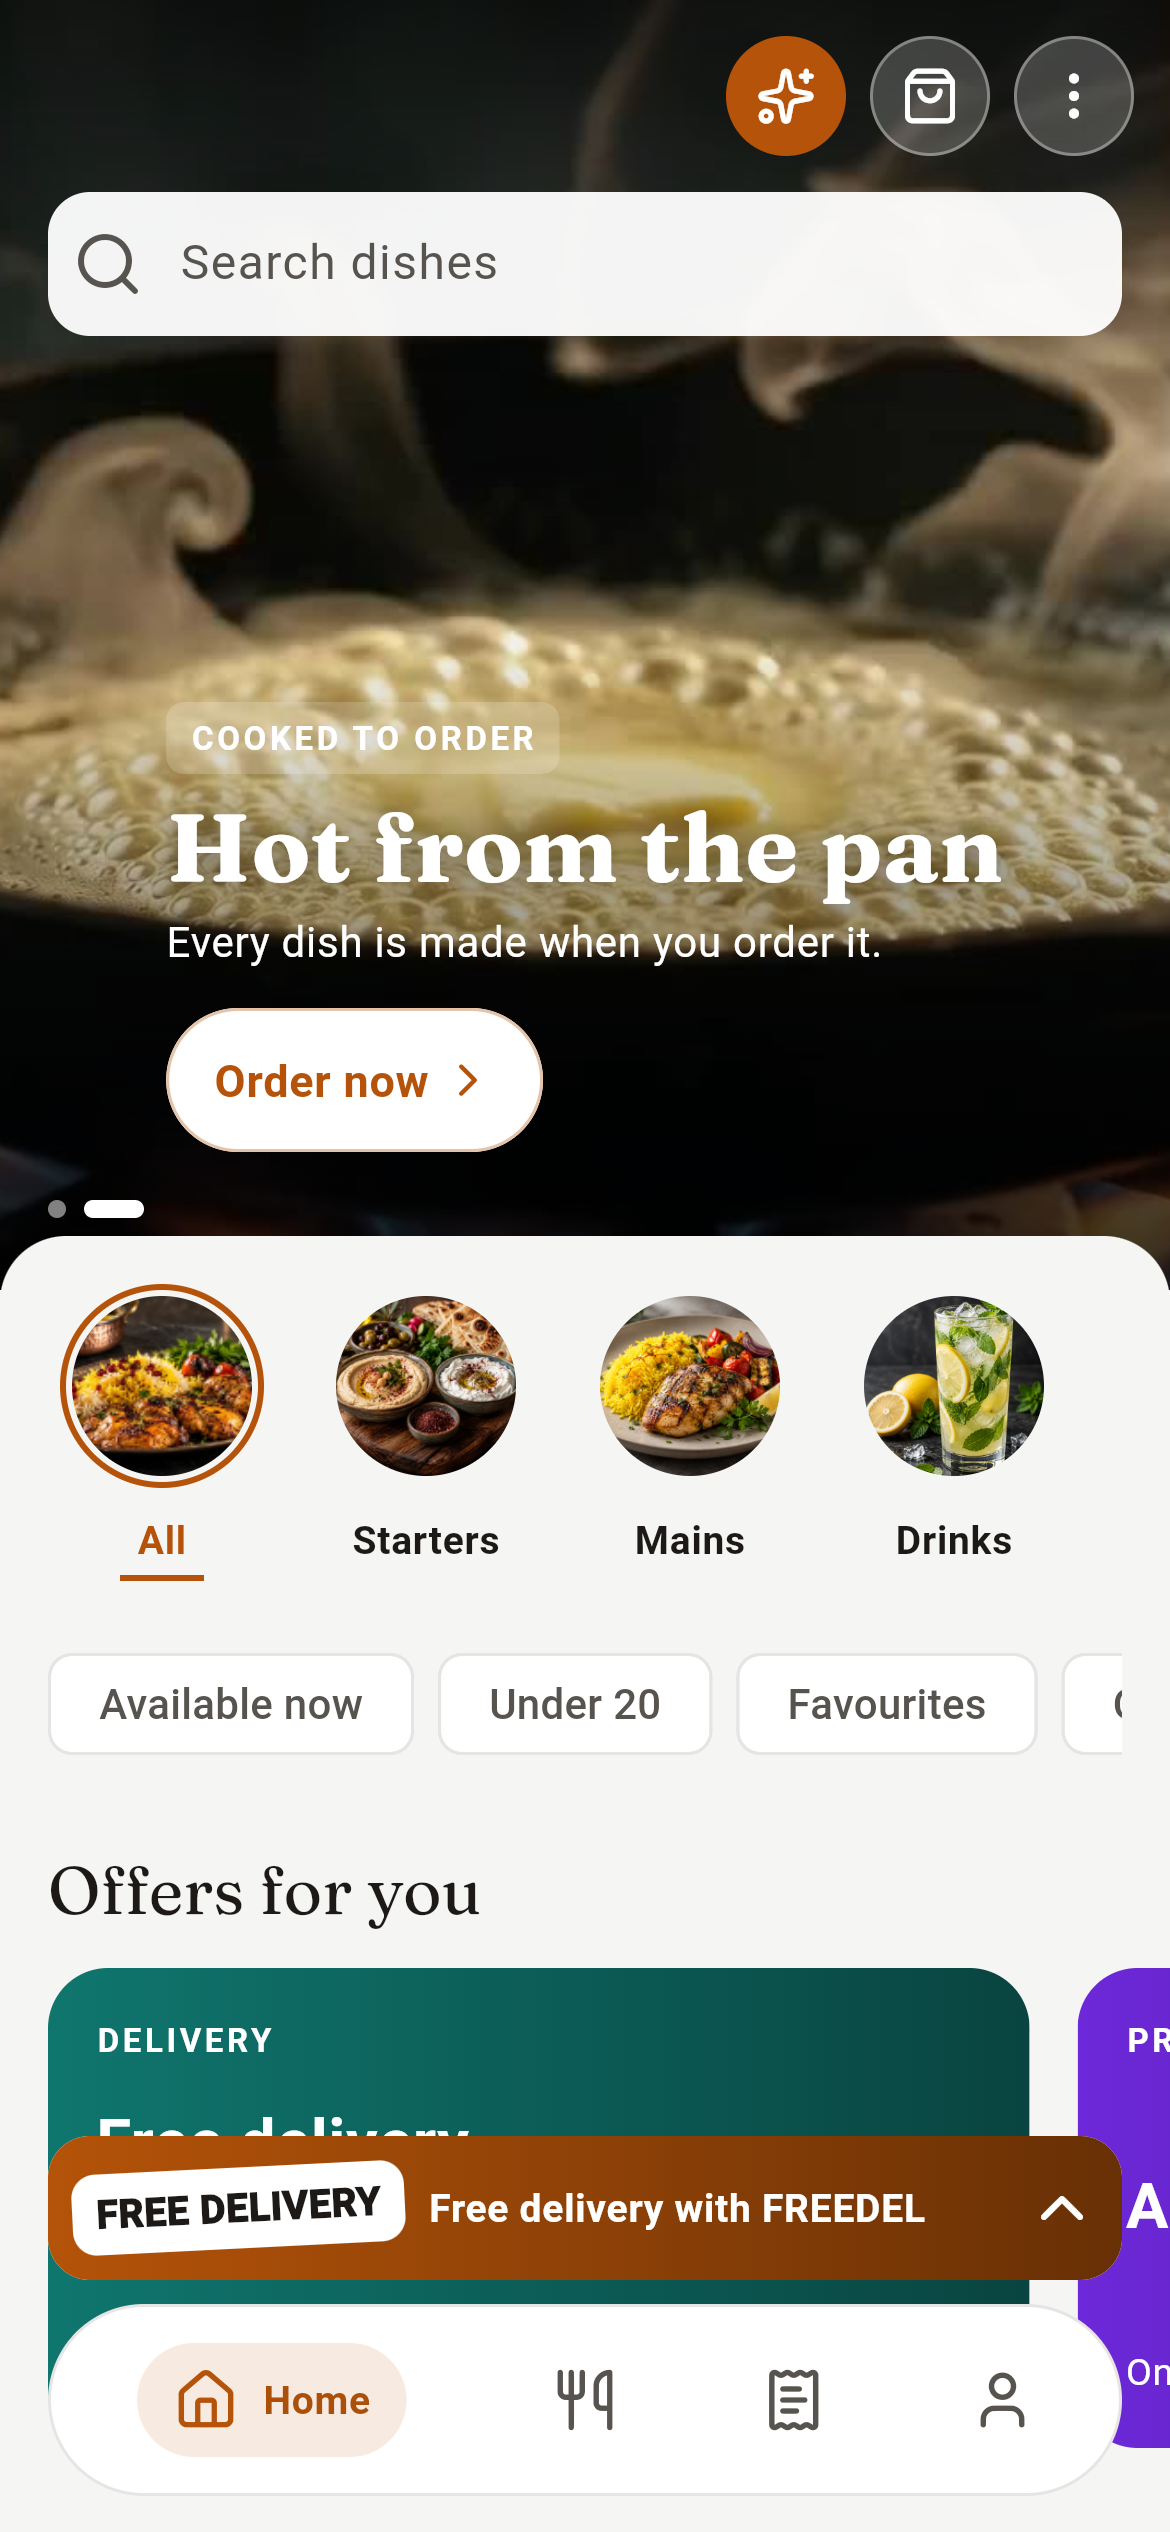
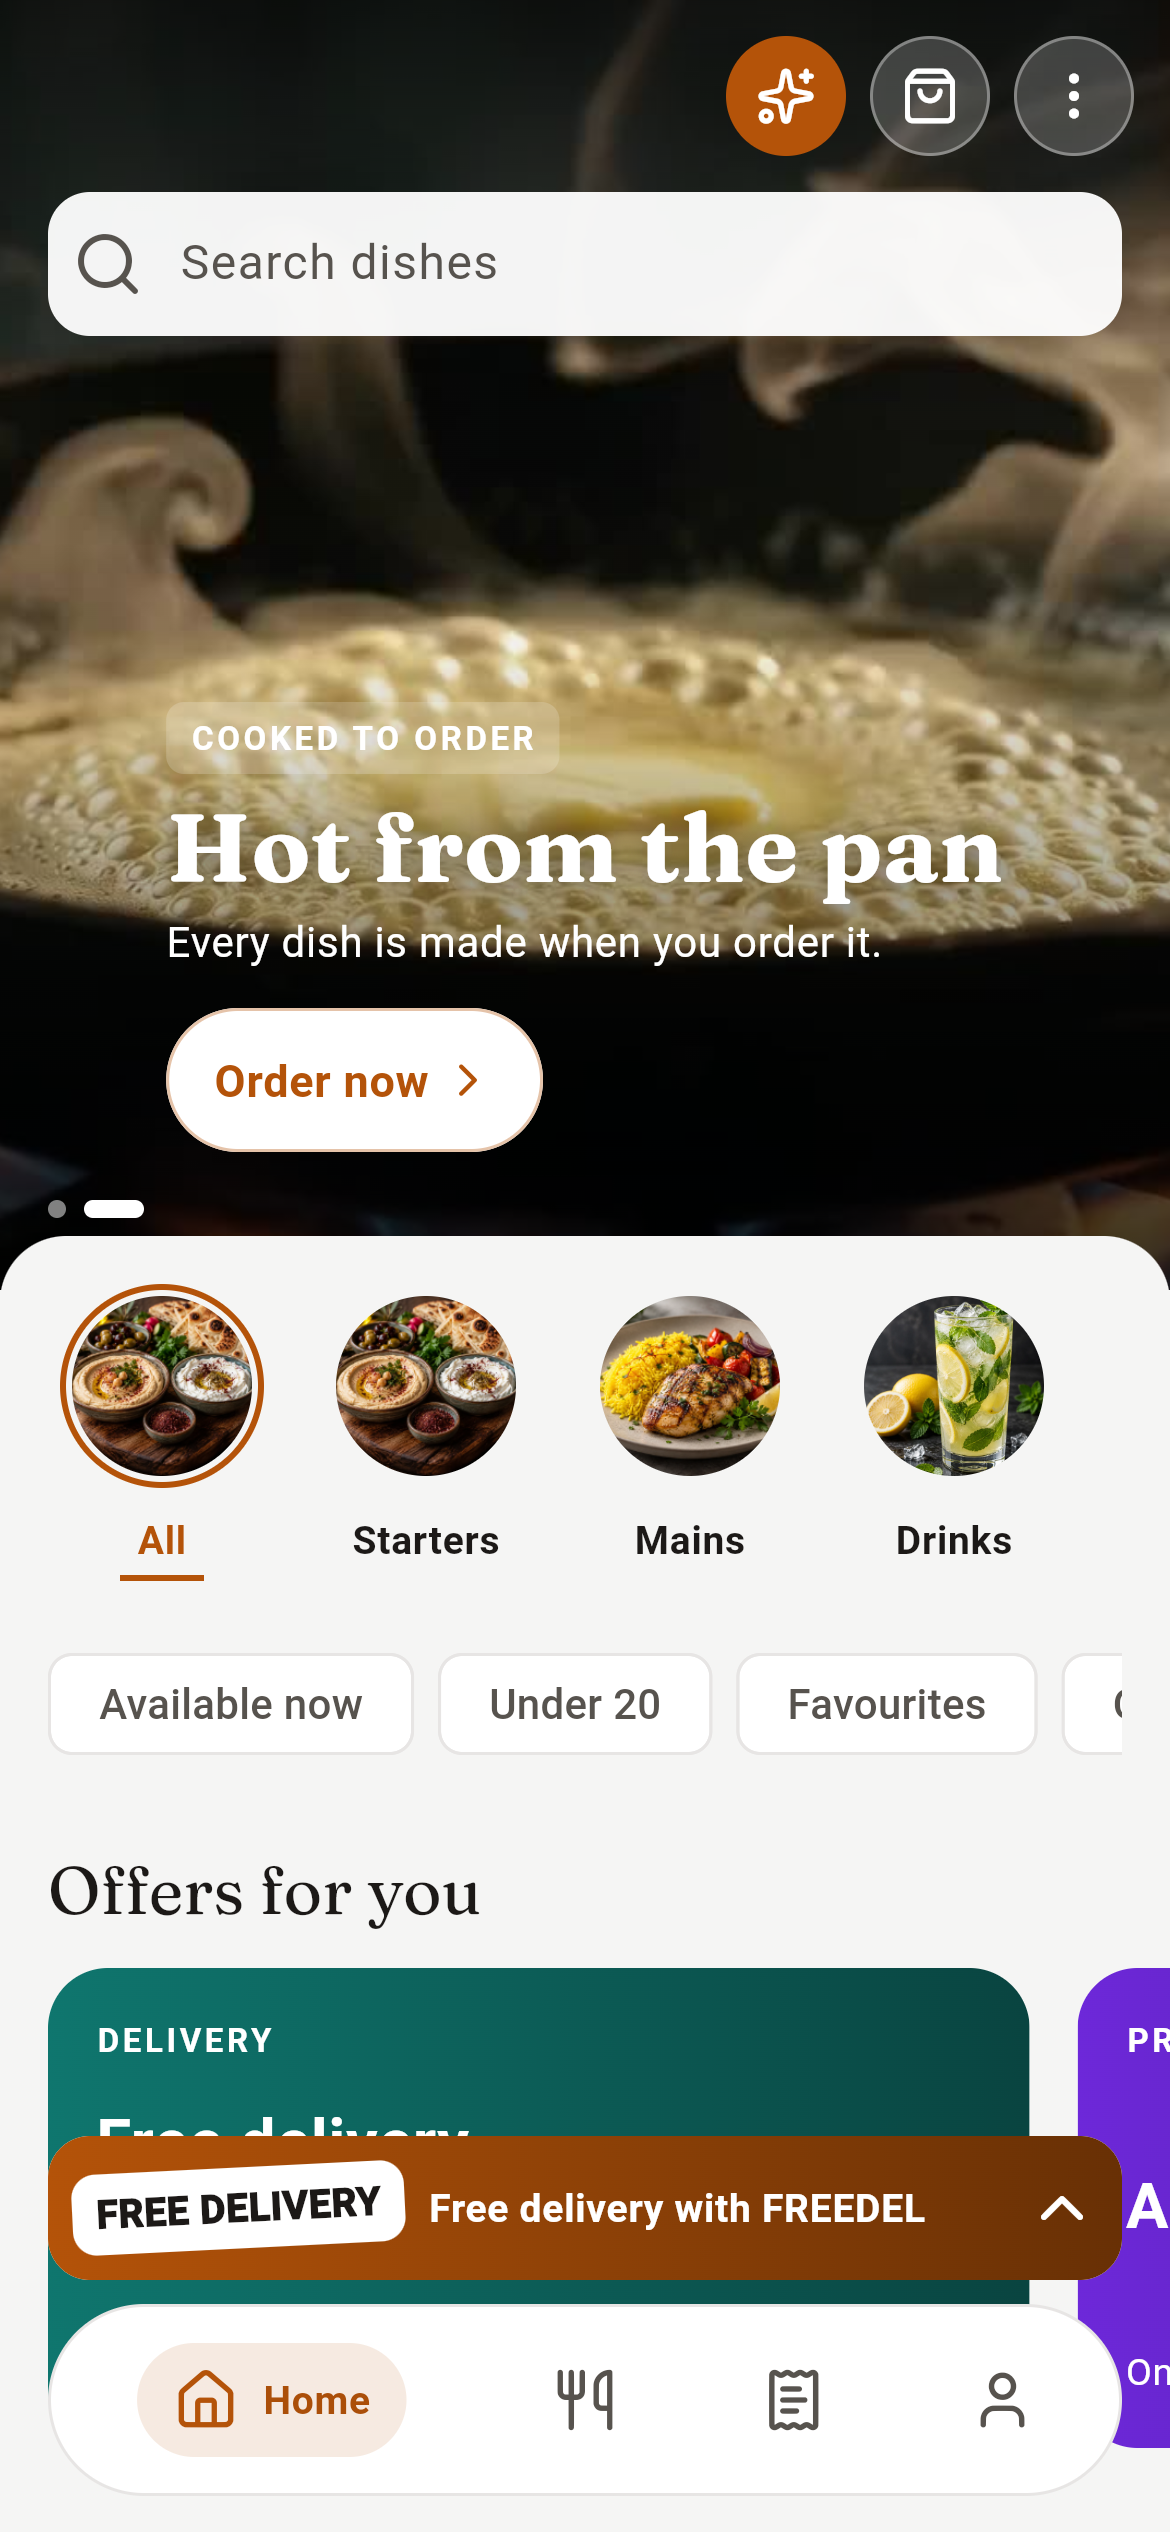
Promo video: all nine businesses in the curved carousel; app home uses the shop's own photo
The "One app. Every business." scene now shows nine real app screens:
restaurant, fashion, beauty, supplements, pharmacy, grocery, flower
shop, bakery and cafe. Each is set up with its own name, colour, hero
slide, categories and products, using free CC0 / public-domain photos
credited in public/sectors/SOURCES.md. The storyboard is updated.

App: the "All" circle on the home screen uses the shop's first product
photo whenever there is one, instead of a generic food picture, so a
cafe or a bakery no longer shows chicken.

Claude-Session: https://claude.ai/code/session_01Cz3SFRn5hDTUEeGBn2V1Rh

Changed region(s): [[0.0615, 0.4992, 0.2154, 0.5928]]

diff --git a/food-app/promo-video/src/theme.ts b/food-app/promo-video/src/theme.ts
@@ -42,10 +42,10 @@ export const SECTORS = [
   { key: 'restaurant', name: 'restaurant', shot: 'shots/sector-restaurant.png' },
   { key: 'fashion', name: 'fashion', shot: 'shots/sector-fashion.png' },
   { key: 'beauty', name: 'beauty', shot: 'shots/sector-beauty.png' },
-  //   { key: 'supplements', name: 'supplements', shot: 'shots/sector-supplements.png' }, (screen not captured yet)
+  { key: 'supplements', name: 'supplements', shot: 'shots/sector-supplements.png' },
   { key: 'pharmacy', name: 'pharmacy', shot: 'shots/sector-pharmacy.png' },
   { key: 'grocery', name: 'grocery', shot: 'shots/sector-grocery.png' },
-  //   { key: 'flowers', name: 'flower shop', shot: 'shots/sector-flowers.png' }, (screen not captured yet)
-  //   { key: 'bakery', name: 'bakery', shot: 'shots/sector-bakery.png' }, (screen not captured yet)
-  //   { key: 'cafe', name: 'café', shot: 'shots/sector-cafe.png' }, (screen not captured yet)
+  { key: 'flowers', name: 'flower shop', shot: 'shots/sector-flowers.png' },
+  { key: 'bakery', name: 'bakery', shot: 'shots/sector-bakery.png' },
+  { key: 'cafe', name: 'café', shot: 'shots/sector-cafe.png' },
 ];

diff --git a/food-app/mobile/lib/screens/home_screen.dart b/food-app/mobile/lib/screens/home_screen.dart
@@ -384,7 +384,7 @@ class _HomeScreenState extends State<HomeScreen> {
                               tabs: [
                                 // A category shows its first product photo when it has one (always for shops, whose
                                 // categories are not food), else its bundled picture.
-                                CategoryTab(id: '', label: s.allCategories, image: Strings.shop ? _firstPhoto(menu.categories.expand((c) => c.items)) ?? '' : Art.hero),
+                                CategoryTab(id: '', label: s.allCategories, image: _firstPhoto(menu.categories.expand((c) => c.items)) ?? (Strings.shop ? '' : Art.hero)),
                                 for (final c in menu.categories)
                                   CategoryTab(id: c.id, label: c.name.of(s.lang), image: _firstPhoto(c.items) ?? (Strings.shop ? '' : Art.forCategory(c.illustration))),
                               ],

diff --git a/food-app/promo-video/public/sectors/SOURCES.md b/food-app/promo-video/public/sectors/SOURCES.md
@@ -6,12 +6,24 @@ app's own demo pictures. Each file below links to its Commons page, where its li
 
 | Screen photo | Commons file | Licence | Author |
 |---|---|---|---|
+| bakery/choc.jpg | [Edgar (Croissant).png](https://commons.wikimedia.org/wiki/File:Edgar_(Croissant).png) | CC0 | Hakito |
+| bakery/news.jpg | [Croissant-newspaper-and-tea.jpg](https://commons.wikimedia.org/wiki/File:Croissant-newspaper-and-tea.jpg) | CC0 | Petr Kratochvil |
+| bakery/plate.jpg | [Croissant - GAIL's 2024-08-18.jpg](https://commons.wikimedia.org/wiki/File:Croissant_-_GAIL%27s_2024-08-18.jpg) | CC0 | Andy Li |
+| bakery/single.jpg | [Croissant-Petr Kratochvil.jpg](https://commons.wikimedia.org/wiki/File:Croissant-Petr_Kratochvil.jpg) | CC0 | Petr Kratochvil |
+| bakery/stack.jpg | [Croissants au beurre (18953292873).jpg](https://commons.wikimedia.org/wiki/File:Croissants_au_beurre_(18953292873).jpg) | CC0 | Herry Wibisono (herryway) |
+| bakery/tray.jpg | [Freshippo croissant bread.jpg](https://commons.wikimedia.org/wiki/File:Freshippo_croissant_bread.jpg) | CC0 | Fumikas Sagisavas |
 | beauty/brushes.jpg | [Makeup-brush-tips.jpg](https://commons.wikimedia.org/wiki/File:Makeup-brush-tips.jpg) | CC0 | Sarah Pflug |
 | beauty/brushset.jpg | [Brush-makeup-make-up-brushes (24244266921).jpg](https://commons.wikimedia.org/wiki/File:Brush-makeup-make-up-brushes_(24244266921).jpg) | CC0 | www.Pixel.la Free Stock Photos |
 | beauty/hero.jpg | [Fashion-girl-makeup-paint-1 (24243982101).jpg](https://commons.wikimedia.org/wiki/File:Fashion-girl-makeup-paint-1_(24243982101).jpg) | CC0 | www.Pixel.la Free Stock Photos |
 | beauty/kit.jpg | [Fashion-girl-makeup-paint (23699376263).jpg](https://commons.wikimedia.org/wiki/File:Fashion-girl-makeup-paint_(23699376263).jpg) | CC0 | www.Pixel.la Free Stock Photos |
 | beauty/lipsticks.jpg | [DifferentColorsOfLipsticks.JPG](https://commons.wikimedia.org/wiki/File:DifferentColorsOfLipsticks.JPG) | CC0 | Raysonho @ Open Grid Scheduler / Grid Engine |
 | beauty/polish.jpg | [Inglot Cosmetics.jpg](https://commons.wikimedia.org/wiki/File:Inglot_Cosmetics.jpg) | CC0 | AS Photography |
+| cafe/cappuccino.jpg | [Cappuccino - Wai Kika Moo Kau 2024-01-13.jpg](https://commons.wikimedia.org/wiki/File:Cappuccino_-_Wai_Kika_Moo_Kau_2024-01-13.jpg) | CC0 | Andy Li |
+| cafe/foam.jpg | [Cappuccino Freddo - Milos 2025-08-11.jpg](https://commons.wikimedia.org/wiki/File:Cappuccino_Freddo_-_Milos_2025-08-11.jpg) | CC0 | Andy Li |
+| cafe/glass.jpg | [Cappuccino 2023-12-6.jpg](https://commons.wikimedia.org/wiki/File:Cappuccino_2023-12-6.jpg) | CC0 | ArielR20130725 |
+| cafe/hero.jpg | [Zlaté cappuccino v A-Caffe v Gomelu.jpg](https://commons.wikimedia.org/wiki/File:Zlat%C3%A9_cappuccino_v_A-Caffe_v_Gomelu.jpg) | CC0 | Ladabohac |
+| cafe/iced.jpg | [FREDDO CAPPUCCINO - Vios 2025-08-08.jpg](https://commons.wikimedia.org/wiki/File:FREDDO_CAPPUCCINO_-_Vios_2025-08-08.jpg) | CC0 | Andy Li |
+| cafe/latte.jpg | [Cappuccino, cookies, flowers in glass.jpg](https://commons.wikimedia.org/wiki/File:Cappuccino,_cookies,_flowers_in_glass.jpg) | CC0 | Deepak-nsk |
 | fashion/bags.jpg | [GD 廣東 Guangdong 東莞市 Dongguan 橋頭鎮 QiaoTou 廣隆百貨 GuangLong Store 商場 Shopping Mall shop Goldlion Clothing Store December 2025 N13P.jpg](https://commons.wikimedia.org/wiki/File:GD_%E5%BB%A3%E6%9D%B1_Guangdong_%E6%9D%B1%E8%8E%9E%E5%B8%82_Dongguan_%E6%A9%8B%E9%A0%AD%E9%8E%AE_QiaoTou_%E5%BB%A3%E9%9A%86%E7%99%BE%E8%B2%A8_GuangLong_Store_%E5%95%86%E5%A0%B4_Shopping_Mall_shop_Goldlion_Clothing_Store_December_2025_N13P.jpg) | CC0 | HAbdu MEW Lmsio 9Dewlm |
 | fashion/blue.jpg | [Woman wearing blue dress sitting on white armchair near beach.jpg](https://commons.wikimedia.org/wiki/File:Woman_wearing_blue_dress_sitting_on_white_armchair_near_beach.jpg) | CC0 | Samad Ismayilov |
 | fashion/floral.jpg | [Woman pink and blue dress (crop full body).jpg](https://commons.wikimedia.org/wiki/File:Woman_pink_and_blue_dress_(crop_full_body).jpg) | CC0 | Mustafa ezz |
@@ -21,9 +33,21 @@ app's own demo pictures. Each file below links to its Commons page, where its li
 | fashion/sequin.jpg | [Pexels-photo-458694.jpg](https://commons.wikimedia.org/wiki/File:Pexels-photo-458694.jpg) | CC0 | Anna_Bella |
 | fashion/socks.jpg | [SZ 深圳 Shenzhen 南山區 Nanshan 深圳灣 Shenzhen Bay MixC mall shop 蕉內 Banana In Clothing Store May 2026 N13P 04.jpg](https://commons.wikimedia.org/wiki/File:SZ_%E6%B7%B1%E5%9C%B3_Shenzhen_%E5%8D%97%E5%B1%B1%E5%8D%80_Nanshan_%E6%B7%B1%E5%9C%B3%E7%81%A3_Shenzhen_Bay_MixC_mall_shop_%E8%95%89%E5%85%A7_Banana_In_Clothing_Store_May_2026_N13P_04.jpg) | CC0 | TWS LUOK Mingaowpuo |
 | fashion/tees.jpg | [Clothing store downtown Boston.jpg](https://commons.wikimedia.org/wiki/File:Clothing_store_downtown_Boston.jpg) | CC0 | Kurt Kaiser |
+| flowers/gerbera.jpg | [Flower Bouquet-2.jpg](https://commons.wikimedia.org/wiki/File:Flower_Bouquet-2.jpg) | CC0 | David Condrey |
+| flowers/hero.jpg | [Bouquet-3175315 1920.jpg](https://commons.wikimedia.org/wiki/File:Bouquet-3175315_1920.jpg) | CC0 | Yuri_B |
+| flowers/jug.jpg | [Valentine's bouquet (Unsplash).jpg](https://commons.wikimedia.org/wiki/File:Valentine%27s_bouquet_(Unsplash).jpg) | CC0 | Leonardo Wong nardoleo |
+| flowers/orange.jpg | [Rose bouquet, Döhren.jpg](https://commons.wikimedia.org/wiki/File:Rose_bouquet,_D%C3%B6hren.jpg) | CC0 | Gerda Arendt |
+| flowers/pink.jpg | [Gorgeous bouquet on purple background (Unsplash).jpg](https://commons.wikimedia.org/wiki/File:Gorgeous_bouquet_on_purple_background_(Unsplash).jpg) | CC0 | Mira Bozhko miroslava |
+| flowers/ranunculus.jpg | [Rural bouquet (Unsplash).jpg](https://commons.wikimedia.org/wiki/File:Rural_bouquet_(Unsplash).jpg) | CC0 | Alisa Anton alisaanton |
+| flowers/roses.jpg | [A Bouquet of flowers.jpg](https://commons.wikimedia.org/wiki/File:A_Bouquet_of_flowers.jpg) | CC0 | MeriPyaariPrakriti |
 | grocery/apple.jpg | [Apple15112024.jpg](https://commons.wikimedia.org/wiki/File:Apple15112024.jpg) | CC0 | mali maeder |
 | grocery/blueberries.jpg | [Blueberries 545041.jpg](https://commons.wikimedia.org/wiki/File:Blueberries_545041.jpg) | CC0 | Matthew Henry |
 | grocery/cherries.jpg | [Cerises rouges de bouche.jpg](https://commons.wikimedia.org/wiki/File:Cerises_rouges_de_bouche.jpg) | CC0 | Lisa Fotios |
 | pharmacy/blister.jpg | [Pill 3.jpg](https://commons.wikimedia.org/wiki/File:Pill_3.jpg) | CC0 | freestocks.org |
 | pharmacy/pills.jpg | [Pill 1.jpg](https://commons.wikimedia.org/wiki/File:Pill_1.jpg) | CC0 | Pixabay |
 | pharmacy/water.jpg | [Pill 2.jpg](https://commons.wikimedia.org/wiki/File:Pill_2.jpg) | CC0 | JESHOOTS.com |
+| supplements/blue.jpg | [Xarelto.jpg](https://commons.wikimedia.org/wiki/File:Xarelto.jpg) | CC0 | Mx. Granger |
+| supplements/daily.jpg | [30mg Vyvanse capsules.JPG](https://commons.wikimedia.org/wiki/File:30mg_Vyvanse_capsules.JPG) | CC0 | Sardaukar Blackfang at <a href="https://en.wikipedia.org/wiki/" class="ext |
+| supplements/hero.jpg | [Omeprazol Activis capsules.jpg](https://commons.wikimedia.org/wiki/File:Omeprazol_Activis_capsules.jpg) | CC0 | W.carter |
+| supplements/mix.jpg | [Nortriptyline HCL capsules - 50mg and 25mg.JPG](https://commons.wikimedia.org/wiki/File:Nortriptyline_HCL_capsules_-_50mg_and_25mg.JPG) | CC0 | INeverCry |
+| supplements/softgel.jpg | [Omega deep sea three fish oil capsule pill photographed in West Bengal, India, August 5, 2024.jpg](https://commons.wikimedia.org/wiki/File:Omega_deep_sea_three_fish_oil_capsule_pill_photographed_in_West_Bengal,_India,_August_5,_2024.jpg) | CC0 | Billjones94 |

diff --git a/food-app/promo-video/STORYBOARD.md b/food-app/promo-video/STORYBOARD.md
@@ -1,6 +1,6 @@
 # Launch video: storyboard and motion specification
 
-**Free Restaurant Ordering.** A 48-second LinkedIn launch film, built as code (Remotion) in `src/`.
+**Free Restaurant Ordering.** A 53-second LinkedIn launch film, built as code (Remotion) in `src/`.
 
 ## Formats
 
@@ -9,7 +9,7 @@
 | Master | 1920 × 1080 | `Launch` |
 | Feed variant | 1080 × 1350 | `LaunchFeed` |
 
-Both run at 30 fps, 1440 frames.
+Both run at 30 fps, 1578 frames.
 
 ## Ground rules
 
@@ -29,16 +29,16 @@ Both run at 30 fps, 1440 frames.
 
 | # | Time | On screen (accent word in *italics*) |
 | --- | --- | --- |
-| 1 | 0.0–3.2 | Still paying for / your restaurant's *app?* |
+| 1 | 0.0–3.2 | Still paying for / your business *app?* |
 | 2 | 3.2–7.4 | Meet / your *own* / ordering app. → logo |
 | 3 | 7.4–10.6 | Free. Open source. / *0%* commission. |
 | 4 | 10.6–16.4 | ① Deploy on *your server.* (one command; live) |
-| 5 | 16.4–22.6 | ② Add your *restaurant.* / Add your *dishes.* |
+| 5 | 16.4–22.6 | ② Add your *business.* / Add your *products.* |
 | 6 | 22.6–28.6 | ③ Run *offers.* → *vouchers.* → *campaigns.* (new order arrives) |
 | 7 | 28.6–35.2 | Watch it *grow.* (sales dashboard; orders board) |
 | 8 | 35.2–41.0 | ④ Ready for the *stores.* · iOS · Android · Web |
-| 9 | 41.0–44.4 | Website. App. *Admin.* |
-| 10 | 44.4–48.0 | Logo · 0% commission · Apache 2.0 · repo link |
+| 9 | 41.0–49.0 | One app. *Every business.* → "Your {restaurant, fashion, beauty, supplements, pharmacy, grocery, flower shop, bakery, café} app is ready." |
+| 10 | 49.0–52.6 | Logo · 0% commission · Restaurants & shops · Free & open source · Apache 2.0 · repo link |
 
 ## Scene by scene
 
@@ -111,13 +111,19 @@ Both run at 30 fps, 1440 frames.
 - **Platforms:** three chips pop in: iOS, Android, Web.
 - **Fine print:** "Built with Flutter. Publish with your own Apple and Google developer accounts."
 
-### 9. Recap (1230–1332)
-- Website, App and Admin in three small cards. Each tilts in and settles with a spring, 8 frames apart.
-- The glow sweeps under them.
+### 9. Every business (1230–1470)
+- Headline "One app. Every business." builds in word by word.
+- Nine phones sit on a curve (an arc, like the branches carousel on the website). The centre phone is upright and
+  largest; the others turn away, shrink and drop along the arc, and fade at the ends.
+- The ring turns one phone every 22 frames after a short hold, easing into each stop. One full lap shows all nine.
+- Each phone is the real app set up as that business: its own name, brand colour, hero slide, categories and products.
+  Restaurant, fashion, beauty, supplements, pharmacy, grocery, flower shop, bakery, café.
+- The label under the centre phone changes with it: "Your *fashion* app is ready."
+- Photos are free CC0 or public-domain pictures from Wikimedia Commons; credits are in `public/sectors/SOURCES.md`.
 
-### 10. End card (1332–1440)
+### 10. End card (1470–1578)
 - The logo, large, centred: the mark scales 0.9 → 1 and the wordmark fades up.
-- Tags: "0% commission" (filled), "Free & open source", "Apache 2.0".
+- Tags: "0% commission" (filled), "Restaurants & shops", "Free & open source", "Apache 2.0".
 - The URL `github.com/Pushpraj1989/free-restaurant-ordering` types in.
 - The glow settles behind. The last 10 frames hold.
 
@@ -154,8 +160,8 @@ heart, rising from *satisfaction*, a full warm bowl. The colours run from a saff
 | 6 Offers | 678–858 | 22.6–28.6 |
 | 7 Dashboard | 858–1056 | 28.6–35.2 |
 | 8 Stores | 1056–1230 | 35.2–41.0 |
-| 9 Recap | 1230–1332 | 41.0–44.4 |
-| 10 End | 1332–1440 | 44.4–48.0 |
+| 9 Every business | 1230–1470 | 41.0–49.0 |
+| 10 End | 1470–1578 | 49.0–52.6 |
 
 ## LinkedIn caption
 

diff --git a/food-app/promo-video/README.md b/food-app/promo-video/README.md
@@ -1,6 +1,6 @@
 # Launch video (Remotion)
 
-The 48-second launch film for Free Restaurant Ordering, written as code: every word, number, colour and timing
+The 53-second launch film for Free Restaurant Ordering, written as code: every word, number, colour and timing
 can be edited and the video rendered again. The plan, timing sheet and LinkedIn caption are in
 [`STORYBOARD.md`](STORYBOARD.md).
 
